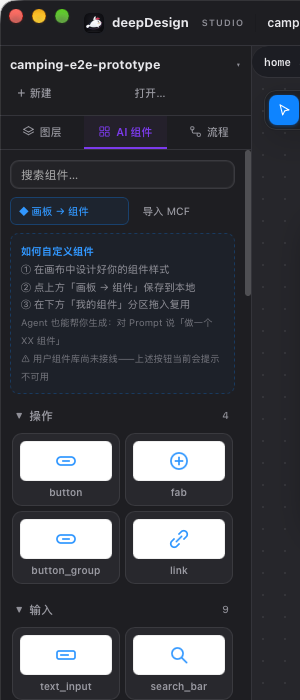
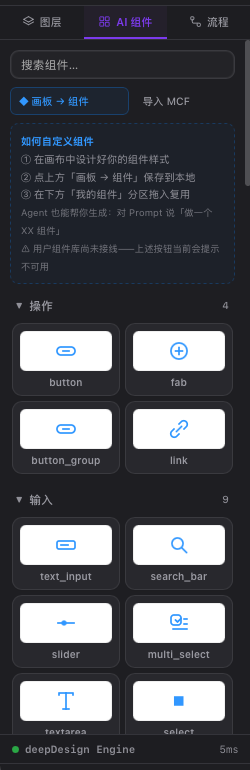
deepDesign Studio: review pass, live preview, demo ink annotations
- New demo-ink screenshot: hand-drawn marker annotations in presentation
  mode, persisted inside the DDP document
- Refreshed editor-dark and components shots from the current build
- Feature copy updated: post-completion three-stage review layer,
  throttled live canvas preview while the agent works, board drag-to-move,
  ink annotations in the quick-start guide
- Fixed stale moonviz-demo-tauri repo links to deepdesign-studio

diff --git a/index.html b/index.html
@@ -103,8 +103,8 @@
         <div class="eco-icon">🎨</div>
         <div class="eco-meta"><span class="tag">视觉编辑器</span><span class="tag">Tauri 2 · Rust</span></div>
         <h3>deepDesign Studio</h3>
-        <p>人类编辑路线的桌面客户端：多画板画布、decl 源码视图、进程内 Agent 循环，DDP 加密导出。与 Agent 共写同一份事实源。</p>
-        <span class="eco-link">asdshuaishuai/moonviz-demo-tauri →</span>
+        <p>人类编辑路线的桌面客户端：多画板画布、进程内 Agent 循环与收尾审查层、演示模式手绘批注、DDP 加密分发。与 Agent 共写同一份事实源。</p>
+        <span class="eco-link">asdshuaishuai/deepdesign-studio →</span>
       </a>
 
       <a class="eco-card reveal" href="#ddpview" data-accent="view">
@@ -295,34 +295,35 @@
     </header>
 
     <div class="shots reveal">
-      <figure><img src="assets/shots/editor-dark.png" alt="deepDesign 编辑视图——多画板画布与交互流" loading="lazy"><figcaption>多画板编辑视图：流连线 · 图层树 · 属性检查器 · Agent 追踪</figcaption></figure>
+      <figure><img src="assets/shots/editor-dark.png" alt="deepDesign 编辑视图——多画板画布与交互流" loading="lazy"><figcaption>多画板编辑视图：图层树 · 组件库 · 属性检查器 · Agent 追踪</figcaption></figure>
+      <figure><img src="assets/shots/demo-ink.png" alt="演示模式手绘批注——橙色马克笔圈点讲解" loading="lazy"><figcaption>演示模式 ✏ 手绘批注：全画板马克笔圈点，批注持久化在 DDP、可修改</figcaption></figure>
       <figure><img src="assets/shots/demo-clean.png" alt="演示模式——隐藏热区标注后的真实成品观感" loading="lazy"><figcaption>演示模式：一键隐藏交互标注，成品观感、点击不失效</figcaption></figure>
       <figure><img src="assets/shots/components.png" alt="AI 组件库——65 个内置组件分类可搜索" loading="lazy"><figcaption>内置 65 组件库：分类浏览 · 关键词搜索 · 点击/拖放放置</figcaption></figure>
     </div>
 
     <div class="arch-flow reveal">
-      <div class="arch-node"><b>前端</b><span>纯静态 · 多画板画布 / 65 组件库 / MBT 源码视图 / 演示模式 / 多项目多窗口</span></div>
+      <div class="arch-node"><b>前端</b><span>纯静态 · 多画板画布（拖拽排布）/ 65 组件库 / MBT 源码视图 / 演示模式 + 手绘批注 / 多项目多窗口</span></div>
       <div class="arch-arrow">invoke</div>
-      <div class="arch-node"><b>Rust 后端</b><span>wasmtime 进程内引擎宿主 · Agent 循环（OpenAI / Anthropic 双协议）· DDP 加解密</span></div>
+      <div class="arch-node"><b>Rust 后端</b><span>wasmtime 进程内引擎宿主 · Agent 循环（OpenAI / Anthropic 双协议）+ 收尾审查层 · 同步渲染预览 · DDP 加解密</span></div>
       <div class="arch-arrow">wasm 直调</div>
       <div class="arch-node"><b>MoonViz 引擎</b><span>标准 classic WASM 编译期内嵌 · HumanGate / AgentGate 双门 · canonical 回写 · 零工具链</span></div>
     </div>
 
     <div class="feature-grid">
-      <div class="feature reveal"><span>🤖</span><b>进程内 Agent</b><p>Rust Agent 循环 × wasmtime 宿主：无 JS 运行时、无子进程桥。OpenAI / Anthropic 双协议，thinking 等级按 8 家厂商方言下发，随时一键修复 / 深色主题 / 澄清式多轮。</p></div>
-      <div class="feature reveal"><span>🗂</span><b>多项目 · 多窗口</b><p>最近项目下拉热切换（不重启应用）；每个项目可开独立系统窗口并行编辑，未保存更改按窗口独立保护。</p></div>
-      <div class="feature reveal"><span>▶</span><b>演示模式</b><p>底部操作栏：上一页回退 / 路径面包屑 / 一键隐藏热区标注（真实成品观感、点击不失效）/ 强制返回——漏接交互的返回钮也能点，演示绝不卡死。</p></div>
+      <div class="feature reveal"><span>🤖</span><b>进程内 Agent + 收尾审查</b><p>Rust Agent 循环 × wasmtime 宿主：无 JS 运行时、无子进程桥。OpenAI / Anthropic 双协议，thinking 等级按 8 家厂商方言下发；设计完成后自动进入<strong>三段收尾审查</strong>——需求完整度、操作逻辑连线、综合修复，发现缺口直接补齐，产出即验收。</p></div>
+      <div class="feature reveal"><span>⚡</span><b>同步渲染预览</b><p>Agent 执行过程画布<strong>实时可见</strong>：每步变更节流回传、900ms 节流渲染上屏——不是等终态的黑盒，而是看着设计一步步长出来。事实源仍由终态回灌收口，预览不污染文档。</p></div>
+      <div class="feature reveal"><span>🗂</span><b>多项目 · 多窗口</b><p>最近项目下拉热切换（不重启应用）；每个项目可开独立系统窗口并行编辑，未保存更改按窗口独立保护；画板支持拖拽移动、自由排布画布。</p></div>
+      <div class="feature reveal"><span>▶</span><b>演示模式 + 手绘批注</b><p>底部操作栏：路径面包屑 / 一键隐藏热区（真实成品观感）/ 强制返回——漏接交互的返回钮也能点。✏ 全画板<strong>手绘批注</strong>：中点贝塞尔平滑笔迹，批注持久化在 DDP 内，重新打开自动重放、可继续修改。</p></div>
       <div class="feature reveal"><span>🧠</span><b>上下文管理</b><p>Agent 历史三层裁剪：工具结果整形（剥离冗余校验块）、同源去重、按模型上下文窗口预算——多页长任务成本可控、不丢关键信息。</p></div>
-      <div class="feature reveal"><span>🏭</span><b>13 家服务商预设</b><p>DeepSeek / GLM 双平台 / Kimi 双线 / MiniMax 国内外双协议（OpenAI + Anthropic）/ StepFun，models.dev 快照本地化，离线可用、模型能力标签与思考档位自动收窄。</p></div>
-      <div class="feature reveal"><span>🔐</span><b>DDP 加密分发</b><p>Argon2id + XChaCha20 加密导出（或免密 DDP2），最近项目热切换、新窗口并行——与 ddpView 查看器回路一致。</p></div>
+      <div class="feature reveal"><span>🔐</span><b>13 家服务商 · DDP 分发</b><p>DeepSeek / GLM / Kimi / MiniMax 双协议 / StepFun 等 models.dev 快照本地化，离线可用、能力标签自动收窄；Argon2id + XChaCha20 加密导出（或免密 DDP2），与 ddpView 查看器回路一致。</p></div>
     </div>
 
     <div class="usage reveal">
       <h3>快速上手</h3>
       <ol>
-        <li><b>起步</b>：欢迎页选模板，或对底部 Prompt 条直接说需求——Agent 一次生成多页可交互原型（如「城市露营装备租赁」5 页小程序，一次约 5 分钟）。</li>
-        <li><b>编辑</b>：画布点选任意元素改属性；「AI 组件」面板 65 个内置组件点击/拖放放置；「MBT 源码」视图直接编辑 <code>.mbt.md</code>，校验后即时渲染。</li>
-        <li><b>演示</b>：⌘4 进入演示模式——绿框标注可点击交互，可一键隐藏成真实成品观感；◀ 返回 / Esc 回退上一页，退出即回编辑模式。</li>
+        <li><b>起步</b>：欢迎页选模板，或对底部 Prompt 条直接说需求——Agent 一次生成多页可交互原型（画布实时同步渲染，完成后自动三段审查补缺口）。</li>
+        <li><b>编辑</b>：画板可拖拽移动排布；画布点选任意元素改属性；「AI 组件」面板 65 个内置组件点击/拖放放置；「MBT 源码」视图直接编辑 <code>.mbt.md</code>，校验后即时渲染。</li>
+        <li><b>演示</b>：⌘4 进入演示模式——底部操作栏导航，可一键隐藏交互热区成真实成品观感；✏ 开启手绘批注圈点讲解，批注随项目保存、下次打开自动重放；◀ / Esc 回退上一页。</li>
         <li><b>保存与分发</b>：⌘S 导出 DDP（Argon2id 加密或免密）；项目名下拉热切换最近项目，⧉ 在新窗口并行打开多个项目。</li>
       </ol>
     </div>
@@ -568,7 +569,7 @@
           <h4>项目仓库</h4>
           <a href="https://github.com/d2rabbit/deepOrca" target="_blank" rel="noopener">d2rabbit/deepOrca</a>
           <a href="https://github.com/asdshuaishuai/moonviz" target="_blank" rel="noopener">asdshuaishuai/moonviz</a>
-          <a href="https://github.com/asdshuaishuai/moonviz-demo-tauri" target="_blank" rel="noopener">asdshuaishuai/moonviz-demo-tauri</a>
+          <a href="https://github.com/asdshuaishuai/deepdesign-studio" target="_blank" rel="noopener">asdshuaishuai/deepdesign-studio</a>
           <a href="https://github.com/asdshuaishuai/ddpView-mac" target="_blank" rel="noopener">asdshuaishuai/ddpView-mac</a>
           <a href="https://github.com/asdshuaishuai/html-native" target="_blank" rel="noopener">asdshuaishuai/html-native</a>
         </div>
